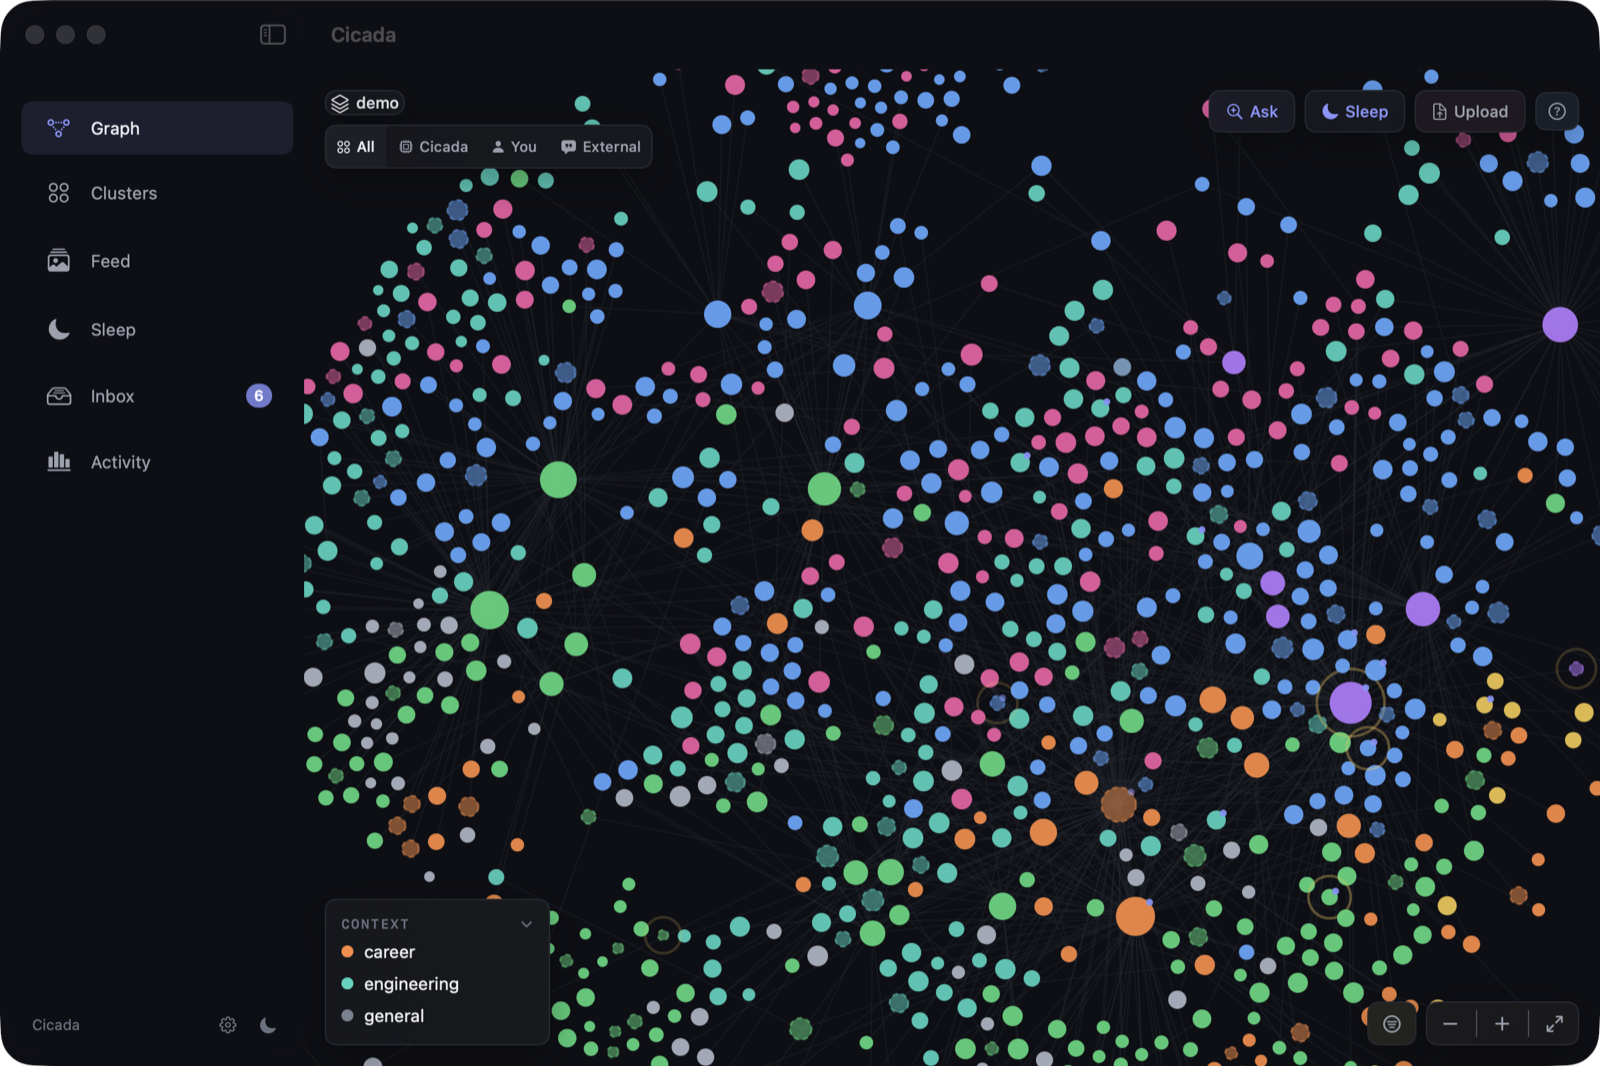
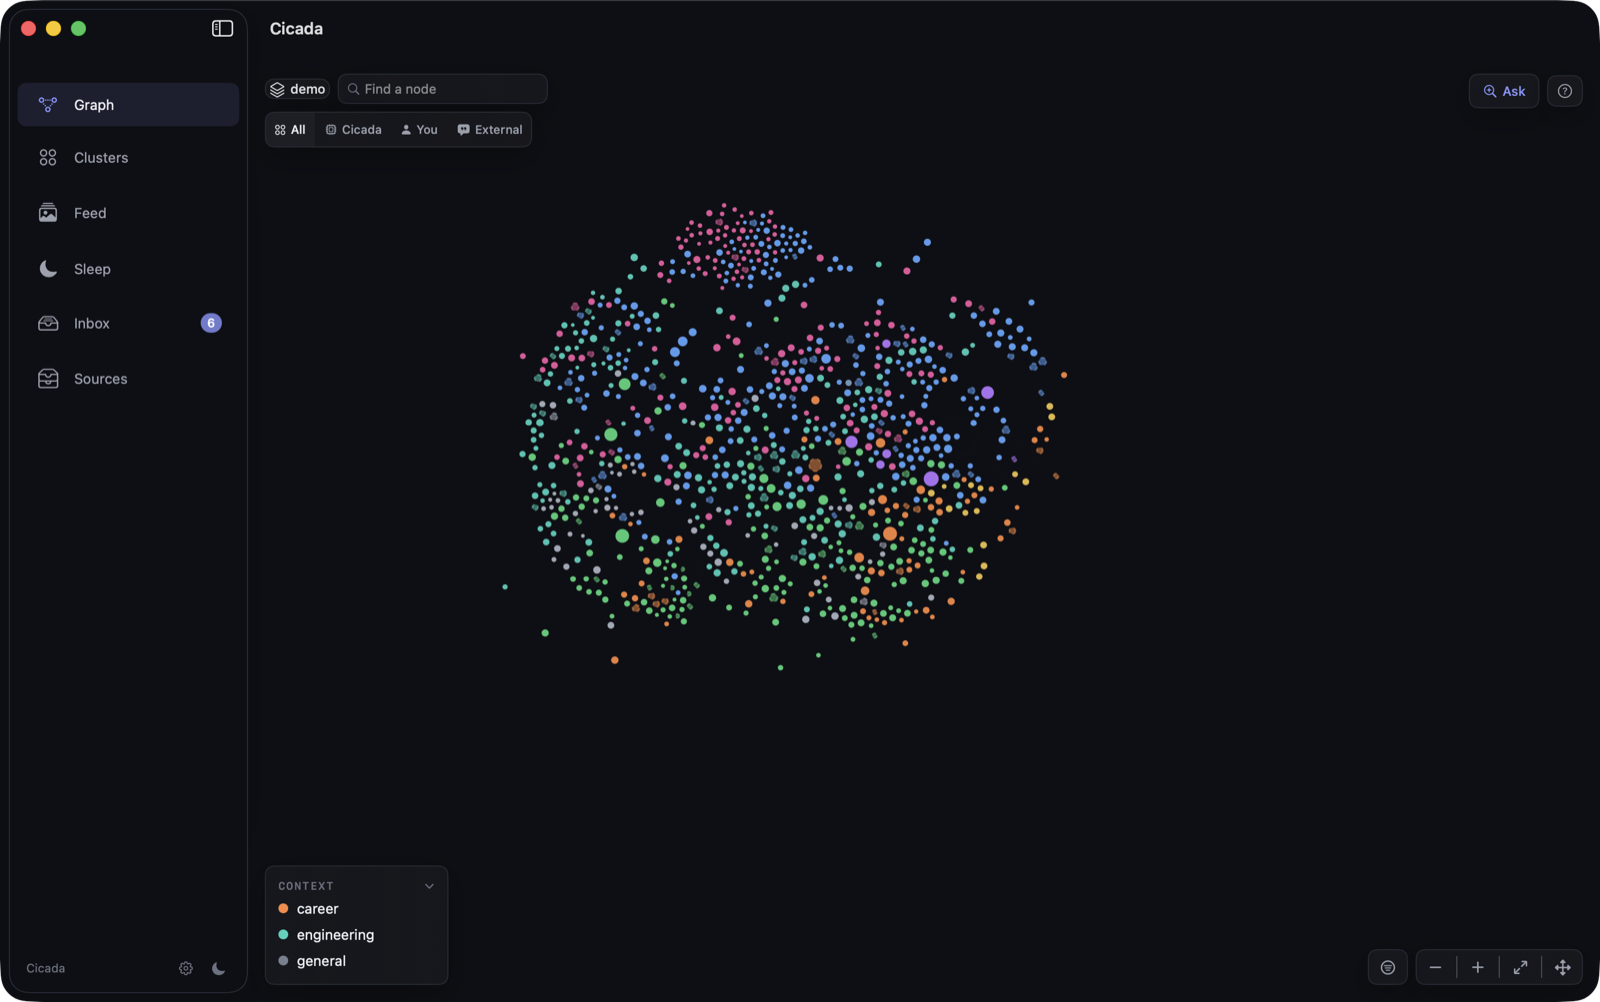
docs(readme): screenshots from the demo bank after round 2 — Graph, Inbox, the study room, Sources v2 (G90)
Claude-Session: https://claude.ai/code/session_01RHX6oujZ79siqkHAqkP7CC

diff --git a/README.md b/README.md
@@ -91,13 +91,13 @@ agent can reason over the record structurally instead of re-reading prose. Every
 
 All screenshots come from a synthetic demo bank. Nothing in them is real.
 
-| Inbox — questions Sleep left for you | Sleep — the queue and the last cycle |
+| Inbox — questions Sleep left for you | Sleep — the study room, the queue and past cycles |
 |---|---|
 | ![Inbox](docs/screenshots/inbox.png) | ![Sleep](docs/screenshots/sleep.png) |
 
-Activity — what was spent, where memory came from, who authored what:
+Sources — where memory comes from, whether each source is live, and who wrote it:
 
-![Activity](docs/screenshots/activity.png)
+![Sources](docs/screenshots/sources.png)
 
 The app is the management layer, not the primary interface. The primary interface is whatever
 agent you already talk to.
